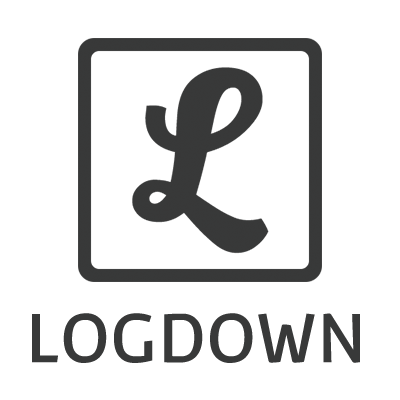
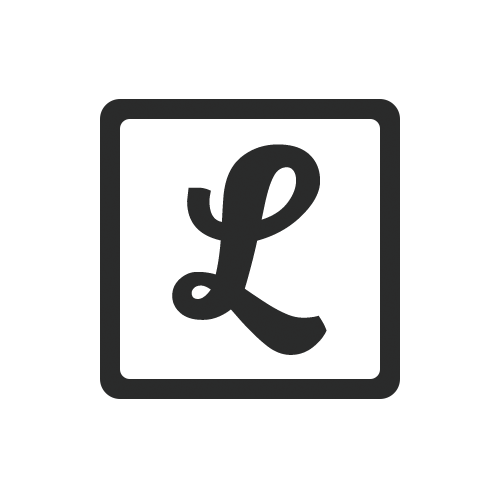
change picture of works

Changed region(s): [[0.06, 0.09, 0.9, 0.93]]

diff --git a/app/assets/stylesheets/work.scss b/app/assets/stylesheets/work.scss
@@ -12,7 +12,7 @@ body {
 	font-size: 1.5rem;
 	font-family: source-sans-pro,Helvetica Neue,HelveticaNeue,TeXGyreHeros,FreeSans,Nimbus Sans L,Liberation Sans,Arimo,Helvetica,Arial,sans-serif;
 	color: #282828;
-	background-color: #f4f4f4;
+	/*background-color: #f4f4f4;*/
 	z-index: 0;
 	/*max-width: 60em;*/
 	margin: auto;
@@ -90,15 +90,18 @@ h1 {
 
 /* Thumbnails, just for demo purposes */
 .thumbnail-grid figure.i1 {
-	background: url(https://anselmurban.de/codepen-img/sinfonietta-meridiana.png) no-repeat center;
+	background: url(image_path('logdown.png')) no-repeat center;
+	
 	background-size: cover
 }
 .thumbnail-grid figure.i2 {
-	background: url(https://anselmurban.de/codepen-img/pension.png) no-repeat center;
+	/*background: url(https://anselmurban.de/codepen-img/pension.png) no-repeat center;*/
+	background: url(image_path('pay2go.jpg')) no-repeat center;
+	
 	background-size: cover
 }
 .thumbnail-grid figure.i3 {
-	background: url(https://anselmurban.de/codepen-img/goerlitzmade.png) no-repeat center;
+	/*background: url(https://anselmurban.de/codepen-img/goerlitzmade.png) no-repeat center;*/
 	background-size: cover
 }
 

diff --git a/app/assets/stylesheets/application.scss b/app/assets/stylesheets/application.scss
@@ -1,4 +1,4 @@
 @import "bootstrap-sprockets";
 @import "bootstrap";
 @import "resume";
-/*@import "work"*/
+@import "work"

diff --git a/config/initializers/assets.rb b/config/initializers/assets.rb
@@ -2,7 +2,7 @@
 
 # Version of your assets, change this if you want to expire all your assets.
 Rails.application.config.assets.version = '1.0'
-Rails.application.config.assets.precompile += ['work.scss']
+# Rails.application.config.assets.precompile += ['work.scss']
 
 # Add additional assets to the asset load path
 # Rails.application.config.assets.paths << Emoji.images_path
